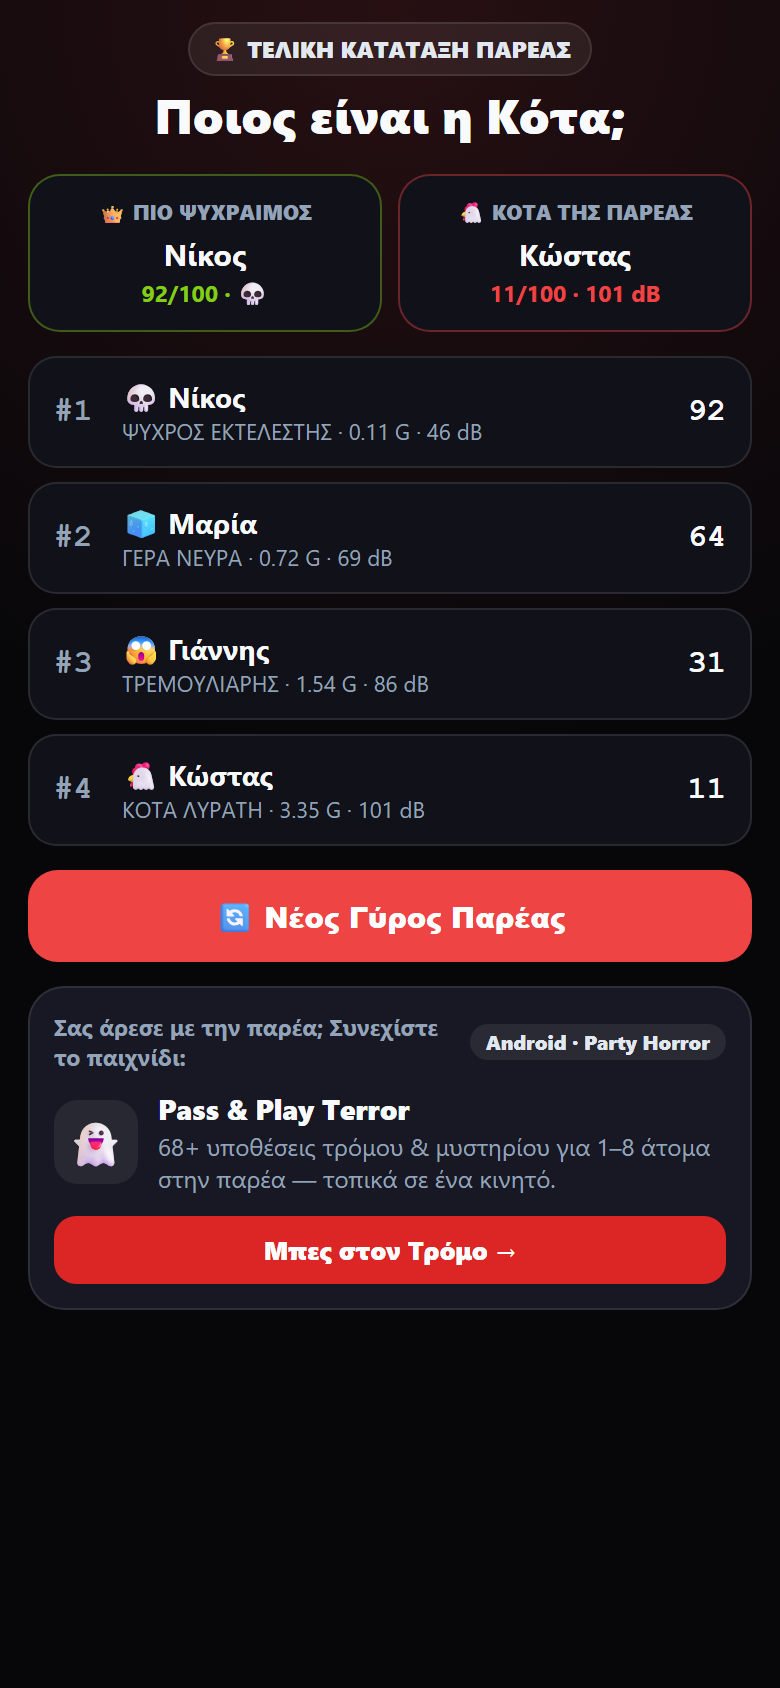
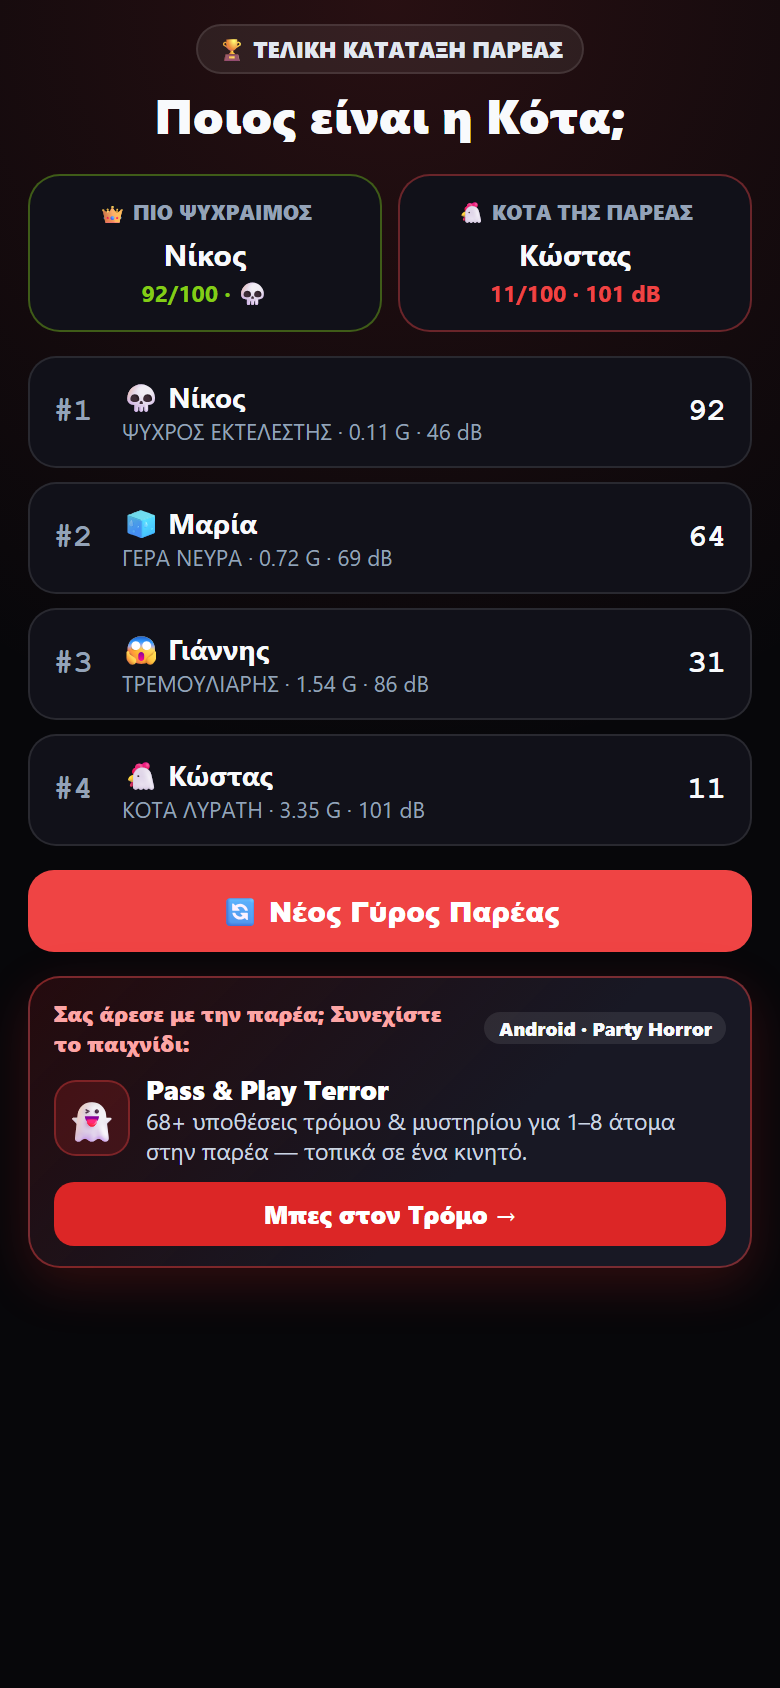
release(v1.2.3): hero Pass & Play Terror promo above the fold

diff --git a/CHANGELOG.md b/CHANGELOG.md
@@ -1,5 +1,8 @@
 # Changelog — Έχεις Κότσια; (`Do You Have the Guts?`)
 
+## v1.2.3 (2026-11-20)
+* 👻 **Pass & Play Terror Promo Above the Fold:** Εμφάνιση της κάρτας **«👻 Pass & Play Terror»** ως βασικής πρότασης τρόμου στην οθόνη αποτελέσματος 100% ορατής **χωρίς scrolling** (μαζί με σκορ, mini preview κάρτας `🔍 9:16`, Αποθήκευση & Κοινοποίηση), καθώς και στο footer της εξαγόμενης 9:16 PNG κάρτας.
+
 ## v1.2.2 (2026-11-20)
 * 🎨 **Custom Android Launcher, Adaptive & Splash Icons:** Αντικατάσταση των default εικονιδίων του Capacitor με το αυθεντικό εικονίδιο παλμού ECG σε όλα τα Android mipmap μεγέθη (`mdpi`–`xxxhdpi`), round/adaptive foreground & σκοτεινό `#07070A` splash screen.
 
